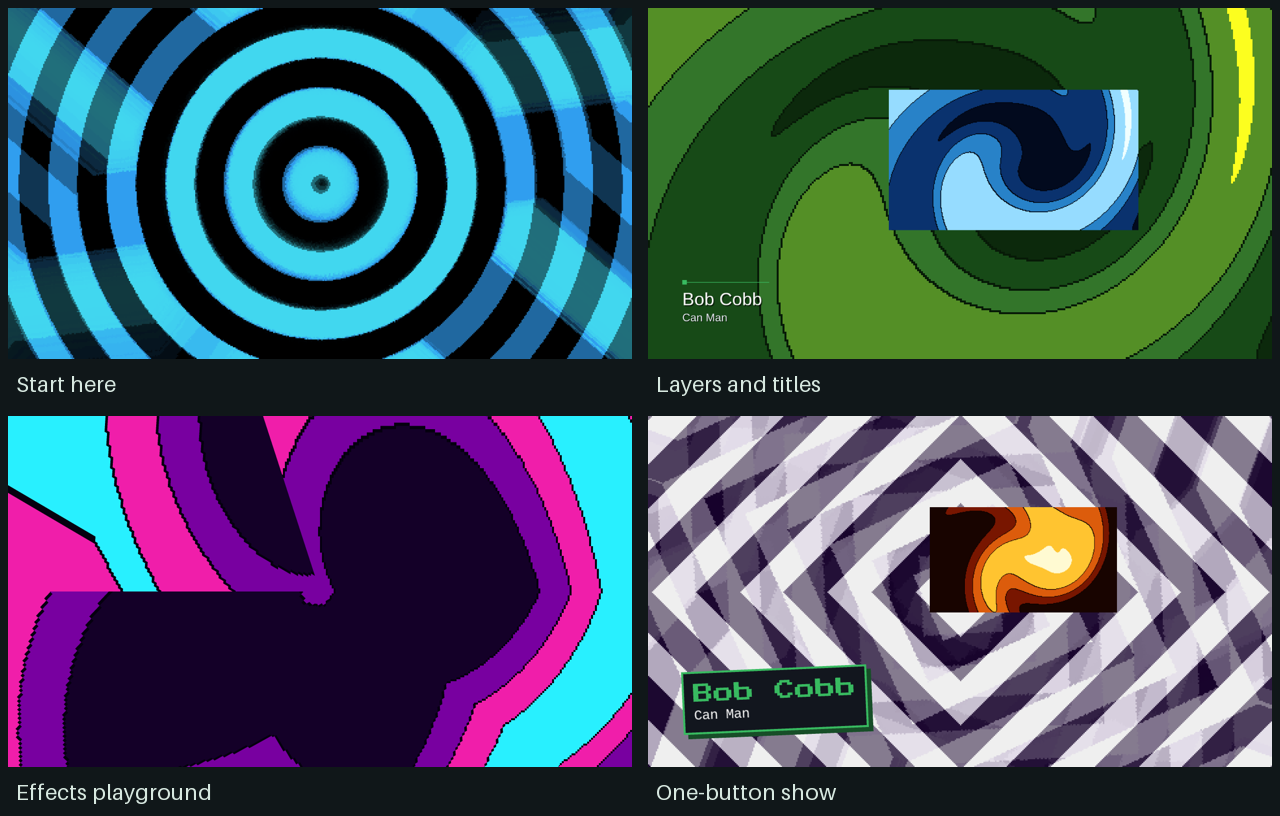
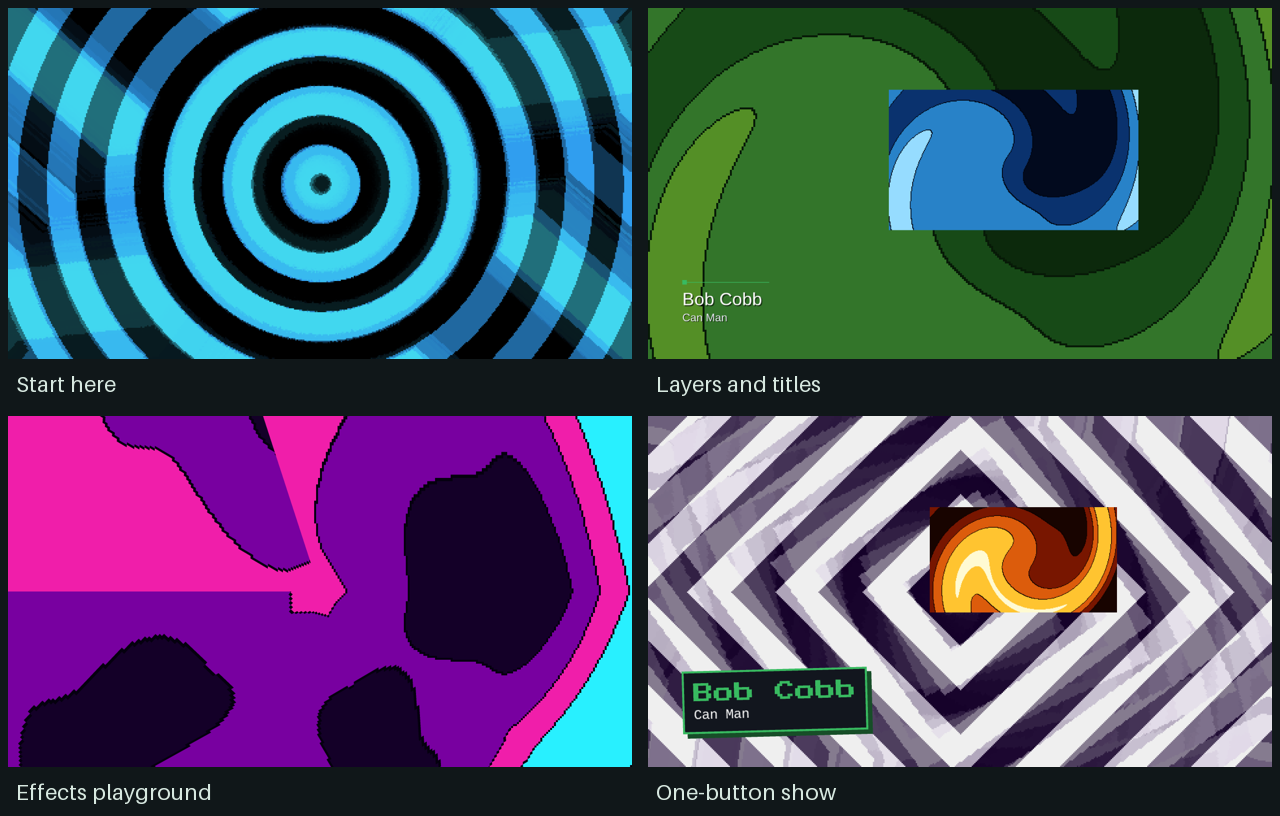
Teach output activation before the first cue

diff --git a/data/demos/starter-pack/00-START-HERE.html b/data/demos/starter-pack/00-START-HERE.html
@@ -1,0 +1,69 @@
+<!doctype html>
+<html lang="en">
+<meta charset="utf-8">
+<meta name="viewport" content="width=device-width, initial-scale=1">
+<title>Deckboy examples — start here</title>
+<style>
+  :root{color-scheme:dark;font:18px/1.55 system-ui,sans-serif;background:#101719;color:#e8f0e4}
+  body{max-width:880px;margin:auto;padding:36px 22px 60px}
+  h1{font-size:clamp(32px,6vw,52px);line-height:1.12;margin:12px 0 24px}
+  h2{font-size:24px;margin:0 0 10px}p{margin:10px 0}
+  .brand{color:#9bbc0f;font-weight:750;letter-spacing:.1em}
+  .setup,article{border:1px solid #45603e;border-radius:12px;padding:22px;margin:18px 0;background:#17231a}
+  .setup{border-left:6px solid #9bbc0f}
+  .number{color:#b9d94b;font-size:15px;font-weight:750;letter-spacing:.08em}
+  kbd{display:inline-block;background:#e8f0e4;color:#101719;padding:1px 9px;border-radius:5px;box-shadow:0 3px #829c72;font-weight:700}
+  code{overflow-wrap:anywhere;color:#c8e59b}
+  .small{font-size:16px;color:#b6c7b6}img{width:100%;height:auto;border-radius:8px;margin-top:18px}
+  a{color:#c8e59b}li{margin:8px 0}
+</style>
+<body>
+  <div class="brand">DECKBOY / EXAMPLE SHOWS</div>
+  <h1>Output first.<br>Then take your first cue.</h1>
+  <div class="setup">
+    <h2>Start from the extracted folder</h2>
+    <p>On Windows, right-click the ZIP and choose <strong>Extract All</strong>.
+    Open the folder it creates. Keep the <code>media</code> folder beside the shows.</p>
+    <p>Deckboy saves your changes automatically. Use these extracted files;
+    opening an individual show inside a ZIP gives Windows a temporary copy.</p>
+    <p>In Deckboy 0.99.417 or later, choose <strong>OPEN</strong> and select
+    <code>01-start-here.deckboy</code>. Choose <strong>SAVE AS</strong>
+    (<kbd>Ctrl</kbd> + <kbd>Shift</kbd> + <kbd>S</kbd>) to make your own copy in the same folder.</p>
+  </div>
+  <article>
+    <div class="number">STEP 1 / ACTIVATE THE OUTPUT</div>
+    <h2>Press <kbd>N</kbd></h2>
+    <p>This opens the <strong>Programme</strong> output window. You can also
+    open <strong>DASH</strong> (<kbd>Ctrl</kbd> + <kbd>D</kbd>) and click
+    <strong>1 Activate output</strong>.</p>
+    <p>The output starts black because you have not taken a cue yet.
+    Press <kbd>F</kbd> to switch fullscreen/windowed. On one screen, use your
+    window switcher to return to the Deckboy desk.</p>
+    <p class="small">For an external display, select it under Settings → Video Outputs.</p>
+  </article>
+  <article>
+    <div class="number">STEP 2 / SEND A CUE</div>
+    <h2>Select cue 01, then press <kbd>Enter</kbd></h2>
+    <p><strong>TAKE</strong> sends the selected cue to your output. You can use
+    the TAKE button on the desk or <strong>2 Take selection</strong> in DASH.</p>
+    <p>Your output now says <strong>YOUR OUTPUT IS LIVE</strong>.</p>
+  </article>
+  <article>
+    <div class="number">STEP 3 / ADVANCE THE SHOW</div>
+    <h2>Press <kbd>Space</kbd></h2>
+    <p><strong>GO</strong> takes the next cue: a Swirl made live by Deckboy.
+    Keep going to explore Video Synth, an effect and the closing card.</p>
+    <p>To jump to a specific cue, select it and press TAKE. To close the output,
+    press <kbd>N</kbd> again or choose <strong>Output off</strong> in DASH.</p>
+  </article>
+  <h2>Three more shows to explore</h2>
+  <ul>
+    <li><strong>02 — Layers and titles:</strong> choose the named scenes in DASH.</li>
+    <li><strong>03 — Effects playground:</strong> compare six looks and change their controls.</li>
+    <li><strong>04 — One-button show:</strong> activate output, then press Run sequence
+    in DASH for a 39-second show with original music.</li>
+  </ul>
+  <p class="small">Each cue includes notes. The full guide is in <a href="README.md">README.md</a>.</p>
+  <img src="overview.png" alt="Actual programme output from the four example shows" width="1280" height="816">
+</body>
+</html>

diff --git a/tools/check_example_shows.py b/tools/check_example_shows.py
@@ -90,6 +90,17 @@ def main():
             check = db.send("CHECK")
             assert "nothing broken" in check, check
             item["check"] = check
+            # A loaded show must really accept edits, including replacement of
+            # an existing saved file. An OK control reply alone cannot prove it.
+            marker = "Example autosave verification - " + slug
+            db.commands("DECK 1", "CUENOTES 1 " + marker)
+            assert marker in db.saved(), "First autosave did not reach disk"
+            db.send("CUENOTES 1 " + marker + " second edit")
+            assert marker + " second edit" in db.saved(), "Replacement autosave failed"
+            db.send("CUENOTES 1 " + cues[0][33])
+            restored = db.saved()
+            assert marker not in restored and cues[0][33] in restored
+            item["autosave"] = "two edits and restoration written successfully"
             db.send("DASH 1")
             time.sleep(.8)
             if not info["steps"]:
@@ -170,12 +181,16 @@ def main():
             db.commands("DECK 1", "SELECT 1")
             time.sleep(.4)
             db.snapshot(work / "desk-dark.bmp")
-        # Reload the untouched example in the saturated theme at the same 150% scale.
-        show.write_text(original.replace("theme\tdark\n", "theme\tvirtual-boy\n"), encoding="utf8")
+            saved = db.saved()
+        # Reopen what the app actually saved, in the saturated theme at 150%.
+        show.write_text(saved.replace("theme\tdark\n", "theme\tvirtual-boy\n"), encoding="utf8")
         with Runtime(args.exe, work / "virtual-boy", show) as db:
+            assert "nothing broken" in db.send("CHECK")
             db.commands("OUTPUT ON", "TRACKER STEP 1" if info["steps"] else "TAKE")
             time.sleep(1)
             db.snapshot(work / "desk-virtual-boy.bmp")
+            assert cues[0][33] in db.saved(), "Cue notes did not survive reopening"
+            item["reopened"] = True
         report.append(item)
         print(f"Passed {slug}", flush=True)
     sheet = Image.new("RGB", (1280, 816), "#101719")

diff --git a/tools/package_example_shows.py b/tools/package_example_shows.py
@@ -17,6 +17,8 @@ def sha(path):
 def main():
     parser = argparse.ArgumentParser(description=__doc__)
     parser.add_argument("--output", required=True, type=Path)
+    parser.add_argument("--extract-to", type=Path,
+                        help="Also create a ready-to-open folder beside the archive")
     args = parser.parse_args()
     checks = ROOT / "build/examples/check"
     report = json.loads((checks / "report.json").read_text(encoding="utf8"))
@@ -27,7 +29,8 @@ def main():
     assert sha(PACK / "media/soft-circuit.wav") == report["audio_sha256"], "Recheck changed audio"
     shutil.copyfile(ROOT / "LICENSE", PACK / "LICENSE.txt")
     shutil.copyfile(checks / "overview.png", PACK / "overview.png")
-    files = ["README.md", "LICENSE.txt", "overview.png", "manifest.json", "media/soft-circuit.wav"]
+    files = ["00-START-HERE.html", "README.md", "LICENSE.txt", "overview.png",
+             "manifest.json", "media/soft-circuit.wav"]
     files += [s["file"] for s in manifest["shows"]]
     args.output.parent.mkdir(parents=True, exist_ok=True)
     with zipfile.ZipFile(args.output, "w", zipfile.ZIP_DEFLATED, compresslevel=9) as archive:
@@ -38,6 +41,14 @@ def main():
         assert len(archive.namelist()) == len(files)
         for name in files:
             assert archive.read("Deckboy-Example-Shows/" + name) == (PACK / name).read_bytes()
+    if args.extract_to:
+        # Preserve a user's existing edits: a new folder is required.
+        args.extract_to.mkdir(parents=True, exist_ok=False)
+        for name in files:
+            target = args.extract_to / name
+            target.parent.mkdir(parents=True, exist_ok=True)
+            shutil.copyfile(PACK / name, target)
+        print("Extracted folder:", args.extract_to.resolve())
     print(json.dumps({"zip": str(args.output.resolve()), "bytes": args.output.stat().st_size,
                       "files": len(files), "sha256": sha(args.output)}, indent=2))
 

diff --git a/tools/build_example_shows.py b/tools/build_example_shows.py
@@ -135,8 +135,8 @@ class Author:
 
 def first_show(a):
     a.playlist("Start here")
-    a.text("01 Welcome - TAKE this cue", r"HELLO, DECKBOY.\nYour first five cues.",
-           "Select this cue and press TAKE (Enter). Enable OUTPUT to open the programme window. GO (Space) advances the running order.",
+    a.text("01 Output first: N, then TAKE", r"YOUR OUTPUT IS LIVE.\nTAKE sends the selected cue here.",
+           "FIRST press N to activate the Programme output (or DASH > 1 Activate output). F switches fullscreen/windowed. THEN return to the desk and press TAKE (Enter). GO (Space) advances to the next cue.",
            "TEXTCUE CARD 255")
     a.swirl("02 A backdrop made live", "No movie file: this swirl is generated live. Open the Swirl section and change palette, speed or twist.")
     a.synth("03 Video synth - ice rings", "A second live source. Open VIDEO SYNTH and try its shape, mirror and palette controls.", "ice", "rings")
@@ -290,6 +290,10 @@ def finish(raw, slug, title, author, steps):
         buttons += [("Open tracker", "DASH TRACKER")]
     else:
         buttons += [("Take selection", "TAKE"), ("Next cue", "GO"), ("Stop", "STOP")]
+    if slug == "01-start-here":
+        buttons[0] = ("1 Activate output", "OUTPUT ON")
+        buttons[2] = ("2 Take selection", "TAKE")
+        buttons[3] = ("3 Next cue", "GO")
     if slug == "02-layers-and-titles":
         buttons += [("Name strap out", "DECK 3 TEXTCUE OUT")]
     for i, (label, command) in enumerate(buttons):

diff --git a/data/demos/starter-pack/README.md b/data/demos/starter-pack/README.md
@@ -7,13 +7,26 @@ The pictures are made live by Deckboy. The music is included in `media/`.
 
 ## Start here
 
-1. Extract the entire folder somewhere you can edit, such as Documents.
-2. In Deckboy, choose **OPEN** and select `01-start-here.deckboy`.
-3. Use **SAVE AS** (`Ctrl+Shift+S`) to make your own copy in the same folder.
-   Deckboy saves edits automatically.
-4. Select the first cue and press **TAKE** (`Enter`). Open **DASH** (`Ctrl+D`)
-   and press **Output on** to open its programme window.
-5. Advance with **GO** (`Space`), or select any cue and press **TAKE**.
+**First extract the ZIP:** right-click it and choose **Extract All** on Windows,
+or use your system's archive extractor. Open the extracted folder and read
+`00-START-HERE.html`. Work from this writable folder, with `media` beside the shows.
+Windows' ZIP preview opens individual files as temporary copies; use the extracted
+files for Deckboy's automatic saving.
+
+In Deckboy, choose **OPEN** and select `01-start-here.deckboy`. Use **SAVE AS**
+(`Ctrl+Shift+S`) to make your own copy in the same folder. Then:
+
+1. **Activate an output first.** Press **N**, or open **DASH** (`Ctrl+D`) and
+   press **1 Activate output**. This opens the **Programme** output. It is black
+   until you take a cue. **F** switches between fullscreen and windowed output;
+   on one screen, use your window switcher to return to the Deckboy desk.
+2. **Send a cue to that output.** Select cue 01 and press **TAKE** (`Enter`),
+   or **2 Take selection** in DASH. The output now reads **YOUR OUTPUT IS LIVE**.
+3. **Advance the show.** Press **GO** (`Space`), or **3 Next cue** in DASH.
+   Select a different cue and press TAKE to jump directly to it.
+
+For another physical screen, choose its display under **Settings → Video Outputs**.
+Press **N** again, or **Output off** in DASH, to close the output window.
 
 Keep the `media` folder beside the shows when moving or sharing them. To save a
 show elsewhere together with its media, use **BUNDLE**.
